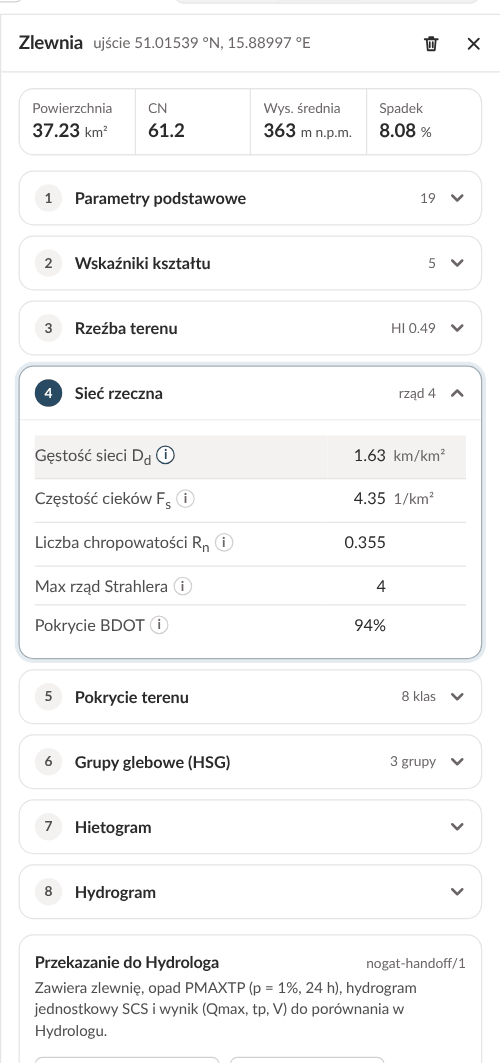
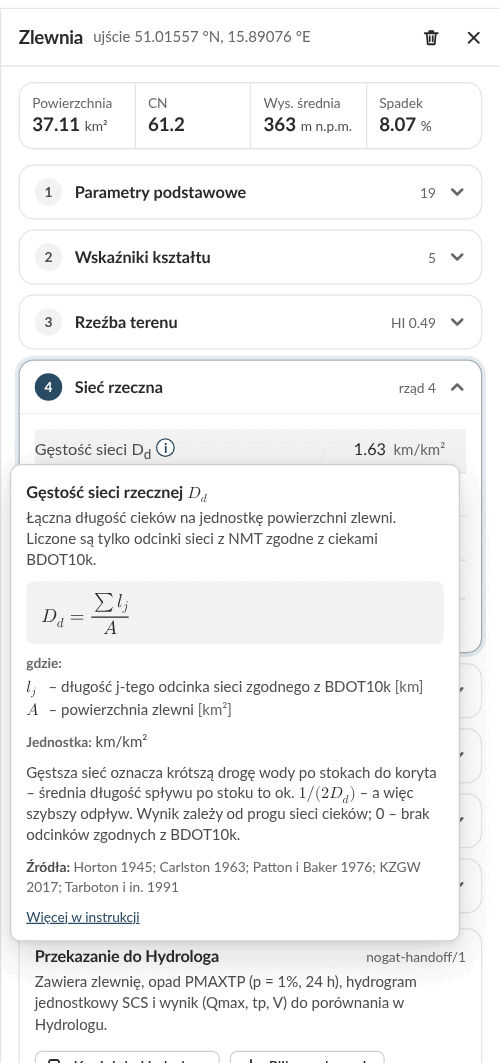
docs: current screenshots of the guide

diff --git a/frontend/instrukcja/index.html b/frontend/instrukcja/index.html
@@ -131,7 +131,7 @@
   <p class="kicker">02 · Orientacja</p>
   <h2>Co jest na ekranie?</h2>
   <div class="split">
-    <figure class=""><a href="Hydrograf-v2-zlewnia.png"><img class="app-shot wide-shot" src="Hydrograf-v2-zlewnia.png" width="1800" height="1125" alt="Widok aplikacji po wyznaczeniu zlewni Kamiennika: cztery tryby nad mapą, granica zlewni i panel z powierzchnią 37,23 km²."></a><figcaption>Co jest na ekranie?. Kliknij obraz, aby powiększyć.</figcaption></figure>
+    <figure class=""><a href="Hydrograf-v2-zlewnia.png"><img class="app-shot wide-shot" src="Hydrograf-v2-zlewnia.png" width="1800" height="1125" alt="Widok aplikacji po wyznaczeniu zlewni Kamiennika: cztery tryby nad mapą, granica zlewni, panel z powierzchnią 37,11 km² i pasek źródeł."></a><figcaption>Co jest na ekranie? Kliknij obraz, aby powiększyć.</figcaption></figure>
     <div class="stack">
       <div class="card"><span class="label">Górny pasek</span><p>Nazwa aplikacji i kontekst („Mapa / Zlewnia … km²”), przycisk „Zgłoś uwagę”, przycisk „Instrukcja” (otwiera najpierw okno powitalne), „Aplikacje” i motyw Auto · Jasny · Ciemny. „Aplikacje” to lista innych aplikacji ekosystemu (np. Hydrologa, Archiwisty), gdy ta instalacja Hydrografa je zna; każda otwiera się we własnej karcie.</p></div>
       <div class="card"><span class="label">Panele</span><p>Po lewej szyna Mapa · Logowanie i panel „Warstwy”, po prawej panel „Zlewnia” z wynikami; w trybie sieci po prawej panel „Sieć zlewni”.</p></div>
@@ -353,7 +353,7 @@
 
   <h3>Objaśnienia (i)</h3>
   <div class="split">
-    <figure class="portrait"><a href="Hydrograf-v2-info.png"><img class="app-shot fit-shot" src="Hydrograf-v2-info.png" width="500" height="1063" alt="Objaśnienie gęstości sieci cieków otwarte obok parametrów zlewni."></a><figcaption>Objaśnienia (i). Kliknij obraz, aby powiększyć.</figcaption></figure>
+    <figure class="portrait"><a href="Hydrograf-v2-info.png"><img class="app-shot fit-shot" src="Hydrograf-v2-info.png" width="500" height="1063" alt="Otwarte objaśnienie gęstości sieci rzecznej z odnośnikiem „Więcej w instrukcji” obok parametrów zlewni."></a><figcaption>Objaśnienia (i). Kliknij obraz, aby powiększyć.</figcaption></figure>
     <div class="stack">
       <div class="card"><span class="label">Gdzie są</span><p>Przy wierszach parametrów, przy Qmax, tp, V i bilansie opadu, przy polach hietogramu i hydrogramu, przy wynikach analiz w panelu „Warstwy” oraz w „Sieci zlewni” — przy rodzajach zlewni i parametrach odcinka.</p></div>
       <div class="card"><span class="label">Jak otworzyć</span><p>Kliknij (i) albo dojdź do niego klawiszem <kbd>Tab</kbd> i naciśnij <kbd>Enter</kbd> lub spację; na telefonie dotknij (i). Ponowne kliknięcie, kliknięcie obok lub <kbd>Esc</kbd> zamyka objaśnienie. Samo najechanie kursorem go nie otwiera.</p></div>
@@ -427,7 +427,7 @@
 
   <h3>Hydrogram: model, czas koncentracji, wynik</h3>
   <div class="split">
-    <figure class="portrait"><a href="Hydrograf-v2-hydrogram.png"><img class="app-shot fit-shot" src="Hydrograf-v2-hydrogram.png" width="500" height="781" alt="Hydrogram dla własnego opadu 45 mm: Qmax 1,65 m³/s, czas do szczytu 280 min i objętość 35 063 m³."></a><figcaption>Hydrogram: model, czas koncentracji, wynik. Kliknij obraz, aby powiększyć.</figcaption></figure>
+    <figure class="portrait"><a href="Hydrograf-v2-hydrogram.png"><img class="app-shot fit-shot" src="Hydrograf-v2-hydrogram.png" width="500" height="781" alt="Hydrogram dla własnego opadu 45 mm: Qmax 1,65 m³/s, czas do szczytu 280 min i objętość 34 957 m³."></a><figcaption>Hydrogram: model, czas koncentracji, wynik. Kliknij obraz, aby powiększyć.</figcaption></figure>
     <div class="stack">
       <div class="card"><span class="label">Model UH</span><p>Hydrogram jednostkowy zamienia opad efektywny w przepływ: SCS (domyślny); Nash — kaskada zbiorników, „Estymacja Nash”: Lutz lub Regresja urban.; Snyder — z długości cieku i odległości L<sub>c</sub>, ze współczynnikami Ct i Cp.</p></div>
       <div class="card"><span class="label">Metoda Tc</span><p>Czas koncentracji dla SCS: NRCS (SCS Lag), Kirpich, Giandotti, FAA (spływ pow.), Kerby, Kerby-Kirpich. Każdą liczy Hydrolog z danych, które podaje jej źródło, bez zastępników — najdłuższa droga spływu i jej spadek oraz spływ powierzchniowy pochodzą z wyznaczenia zlewni. FAA wymaga „C (spływ)” z tabeli FAA, obie metody Kerby’ego — „N (opór)” z tabeli Kerby’ego; pola są puste, dopóki ich nie wypełnisz. Snyder liczy własny czas opóźnienia z L i L<sub>c</sub> — wybór metody Tc nie zmienia jego wyniku.</p></div>
@@ -489,7 +489,7 @@
   <p class="kicker">06 · Sieć zlewni</p>
   <h2>Sieć zlewni: przekrój zamykający, punkty, podgląd</h2>
   <div class="split">
-    <figure class=""><a href="Hydrograf-v2-siec.png"><img class="app-shot wide-shot" src="Hydrograf-v2-siec.png" width="1400" height="1119" alt="Podgląd sieci zlewni: punkty J1–J4 w węzłach sieci, granice zlewni i drzewo od przekroju zamykającego J1 w górę."></a><figcaption>Sieć zlewni: przekrój zamykający, punkty, podgląd. Kliknij obraz, aby powiększyć.</figcaption></figure>
+    <figure class=""><a href="Hydrograf-v2-siec.png"><img class="app-shot wide-shot" src="Hydrograf-v2-siec.png" width="1400" height="1119" alt="Podgląd sieci zlewni: punkty J1–J3 i P1, granice siedmiu zlewni i drzewo od przekroju zamykającego J1 w górę."></a><figcaption>Sieć zlewni: przekrój zamykający, punkty, podgląd. Kliknij obraz, aby powiększyć.</figcaption></figure>
     <div class="steps-list">
       <div class="step"><span class="number">01</span><strong>Wybierz „Sieć zlewni”</strong><p>Na pasku nad mapą włącz „Wybierz zlewnię”, a u góry mapy — „Sieć zlewni”. Punkty trafią na najbliższy ciek progu warstwy „Linie spływu” w promieniu 100&nbsp;m.</p></div>
       <div class="step"><span class="number">02</span><strong>Kliknij przekrój zamykający</strong><p>Pierwsze kliknięcie stawia przekrój zamykający na cieku — dół całej sieci. Sam przekrój też jest siecią; w zbiegu cieków dzieli zlewnię na cieki, które się w nim łączą.</p></div>
@@ -503,7 +503,7 @@
 <section class="guide-subsection" id="siec-wynik">
 
   <h3>Charakterystyki sieci i przekazanie do Hydrologa</h3>
-  <figure class="tree-figure"><a href="Hydrograf-v2-siec-drzewo.png"><img class="app-shot" src="Hydrograf-v2-siec-drzewo.png" width="900" height="1019" alt="Wynik obliczenia sieci: suma elementów równa zlewni przekroju J1 oraz całe gałęzie drzewa z przyrzeczami, odcinkami R i węzłami J."></a><figcaption>Obliczona sieć dla przekroju przy zbiegu Nysy Szalonej i Kaczawy: struktura drzewa i kontrola bilansu. Kliknij obraz, aby powiększyć.</figcaption></figure>
+  <figure class="tree-figure"><a href="Hydrograf-v2-siec-drzewo.png"><img class="app-shot" src="Hydrograf-v2-siec-drzewo.png" width="900" height="1019" alt="Wynik obliczenia sieci: siedem zlewni, trzy odcinki, cztery węzły oraz zgodna suma elementów i powierzchnia przekroju J1."></a><figcaption>Obliczona sieć dla przekroju przy zbiegu Nysy Szalonej i Kaczawy: struktura drzewa i kontrola bilansu. Kliknij obraz, aby powiększyć.</figcaption></figure>
   <div class="grid four">
     <div class="card"><span class="label">Oblicz charakterystyki</span><p>Wystarczy przekrój zamykający bez błędu podglądu; punkty powyżej niego są opcjonalne. Na mapie gruba granica „Zlewnia (całość)” obejmuje całą sieć. Panel podaje „Cała zlewnia”, liczbę zlewni, odcinków i węzłów, kontrolę „Suma elementów = zlewnia przekroju zamykającego” i „Drzewo sieci od przekroju zamykającego w górę”: węzły J i P (przekrój zamykający z powierzchnią całej zlewni; węzeł, który wpływa do innego bez odcinka, jako „J4 → J1”), zlewnie Z (Dopływ, Przyrzecze — każdy rodzaj z (i)) z powierzchnią i CN, odcinki R z długością i spadkiem [‰]. Każdą gałąź czyta się tak samo: przyrzecze, odcinek, węzeł wyżej; pod węzłem, wcięte o krok, idą cieki, które się w nim łączą, a potem rzeka główna na tym samym poziomie — gałąź jest cała, zanim zacznie się następna.</p></div>
     <div class="card"><span class="label">Wybór elementu</span><p>Kliknij etykietę na mapie (Z1, R1, …) albo wiersz drzewa, który też przybliża mapę. Zlewnia pokaże parametry w sekcjach jak w „Wybierz zlewnię”, bez hietogramu i hydrogramu; odcinek — długość, spadek, NMT na końcach i długość wzdłuż BDOT10k. W podglądzie — rodzaj, powierzchnię lub długość i węzeł poniżej. „Odznacz” zdejmuje wybór.</p></div>
@@ -552,7 +552,7 @@
   <p class="kicker">08 · Profil terenu</p>
   <h2>Przekrój terenu wzdłuż linii</h2>
   <div class="split">
-    <figure class=""><a href="Hydrograf-v2-profil.png"><img class="app-shot wide-shot" src="Hydrograf-v2-profil.png" width="1475" height="1063" alt="Profil terenu dla linii na mapie: wykres odległości i wysokości, długość 6,44 km i zakres wysokości 280–388 m n.p.m."></a><figcaption>Przekrój terenu wzdłuż linii. Kliknij obraz, aby powiększyć.</figcaption></figure>
+    <figure class=""><a href="Hydrograf-v2-profil.png"><img class="app-shot wide-shot" src="Hydrograf-v2-profil.png" width="1475" height="1063" alt="Profil terenu dla linii na mapie: wykres odległości i wysokości, długość 6,56 km i zakres wysokości 295–387 m n.p.m."></a><figcaption>Przekrój terenu wzdłuż linii. Kliknij obraz, aby powiększyć.</figcaption></figure>
     <div class="steps-list">
       <div class="step"><span class="number">01</span><strong>Włącz „Profil terenu”</strong><p>Na pasku nad mapą; pomaga warstwa „NMT (wysokości)”. Pojawi się pasek rysowania z licznikiem punktów.</p></div>
       <div class="step"><span class="number">02</span><strong>Klikaj punkty linii</strong><p>Kliknięcie (dotknięcie) dodaje punkt; „Cofnij” lub <kbd>Backspace</kbd> usuwa ostatni, „Anuluj” lub <kbd>Esc</kbd> porzuca linię.</p></div>
@@ -568,9 +568,9 @@
   <p class="kicker">09 · Telefon i motyw</p>
   <h2>Na telefonie i po zmroku</h2>
   <div class="split">
-    <figure class="portrait"><a href="Hydrograf-v2-telefon.png"><img class="app-shot fit-shot" src="Hydrograf-v2-telefon.png" width="488" height="1055" alt="Widok aplikacji na telefonie: ikona Instrukcja w górnym pasku, cztery tryby, panel zlewni i dolna nawigacja Mapa oraz Logowanie."></a><figcaption>Na telefonie i po zmroku. Kliknij obraz, aby powiększyć.</figcaption></figure>
+    <figure class="portrait"><a href="Hydrograf-v2-telefon.png"><img class="app-shot fit-shot" src="Hydrograf-v2-telefon.png" width="488" height="1055" alt="Widok aplikacji na telefonie: górny pasek z ikonami, panel zlewni, pasek źródeł i dolna nawigacja Mapa, Logowanie oraz Regulamin."></a><figcaption>Na telefonie i po zmroku. Kliknij obraz, aby powiększyć.</figcaption></figure>
     <div class="stack">
-      <div class="card"><span class="label">Do 860&nbsp;px szerokości</span><p>Przy szerokości do 860 px szyna nawigacji Mapa · Logowanie staje się dolnym paskiem. W górnym pasku pozostają ikony: „Zgłoś uwagę”, „Instrukcja” (okno powitalne), „Aplikacje” (lista rozwija się pod paskiem) i przełącznik motywu.</p></div>
+      <div class="card"><span class="label">Do 860&nbsp;px szerokości</span><p>Przy szerokości do 860 px szyna nawigacji Mapa · Logowanie · Regulamin staje się dolnym paskiem. W górnym pasku pozostają ikony: „Zgłoś uwagę”, „Instrukcja” (okno powitalne), „Aplikacje” (lista rozwija się pod paskiem) i przełącznik motywu.</p></div>
       <div class="card"><span class="label">Arkusze</span><p>„Warstwy” i „Zlewnia” (w „Sieci zlewni” — „Sieć”) wysuwają się od dołu, zawsze jeden naraz. Otwierają je przyciski na pasku nad mapą, zamyka uchwyt u góry arkusza; po wyznaczeniu zlewni arkusz „Zlewnia” otwiera się sam.</p></div>
       <div class="card"><span class="label">Dotyk</span><p>Przy 390 px cztery tryby mieszczą się nad mapą w dwóch wierszach. Podpowiedzi trybu są ukryte. Profil narysujesz, dotykając kolejnych punktów linii; sieć zlewni — wskazując przekrój zamykający i potem punkty powyżej.</p></div>
       <div class="card"><span class="label">Motyw</span><p>Auto (jak w systemie), Jasny lub Ciemny — linie na mapie, legendy i wykresy zmieniają kolory razem z motywem. Przeglądarka zapamięta wybór, także dla administracji i tej instrukcji.</p></div>

diff --git a/docs/Hydrograf-prezentacja.html b/docs/Hydrograf-prezentacja.html
@@ -136,7 +136,7 @@
   <p class="kicker">02 · Orientacja</p>
   <h2>Co jest na ekranie?</h2>
   <div class="split">
-    <img class="app-shot wide-shot" src="../frontend/instrukcja/Hydrograf-v2-zlewnia.png" width="1800" height="1125" alt="Widok aplikacji po wyznaczeniu zlewni Kamiennika: cztery tryby nad mapą, granica zlewni i panel z powierzchnią 37,23 km².">
+    <img class="app-shot wide-shot" src="../frontend/instrukcja/Hydrograf-v2-zlewnia.png" width="1800" height="1125" alt="Widok aplikacji po wyznaczeniu zlewni Kamiennika: cztery tryby nad mapą, granica zlewni, panel z powierzchnią 37,11 km² i pasek źródeł.">
     <div class="stack">
       <div class="card"><span class="label">Górny pasek</span><p>Nazwa aplikacji i kontekst („Mapa / Zlewnia … km²”), przycisk „Zgłoś uwagę”, przycisk „Instrukcja” (otwiera najpierw okno powitalne), „Aplikacje” (inne aplikacje ekosystemu, gdy ta instalacja je zna) i motyw Auto · Jasny · Ciemny.</p></div>
       <div class="card"><span class="label">Panele</span><p>Po lewej szyna Mapa · Logowanie i panel „Warstwy”, po prawej panel „Zlewnia” z wynikami; w trybie sieci po prawej panel „Sieć zlewni”.</p></div>
@@ -349,7 +349,7 @@
   <p class="kicker">04 · Zlewnia</p>
   <h2>Objaśnienia (i)</h2>
   <div class="split">
-    <img class="app-shot fit-shot" src="../frontend/instrukcja/Hydrograf-v2-info.png" width="500" height="1063" alt="Objaśnienie gęstości sieci cieków otwarte obok parametrów zlewni.">
+    <img class="app-shot fit-shot" src="../frontend/instrukcja/Hydrograf-v2-info.png" width="500" height="1063" alt="Otwarte objaśnienie gęstości sieci rzecznej z odnośnikiem „Więcej w instrukcji” obok parametrów zlewni.">
     <div class="stack">
       <div class="card"><span class="label">Gdzie są</span><p>Przy wierszach parametrów, przy Qmax, tp, V i bilansie opadu, przy polach hietogramu i hydrogramu, przy wynikach analiz w panelu „Warstwy” oraz w „Sieci zlewni” — przy rodzajach zlewni i parametrach odcinka.</p></div>
       <div class="card"><span class="label">Jak otworzyć</span><p>Kliknij (i) albo dojdź do niego klawiszem <kbd>Tab</kbd> i naciśnij <kbd>Enter</kbd> lub spację; na telefonie dotknij (i). Ponowne kliknięcie, kliknięcie obok lub <kbd>Esc</kbd> zamyka objaśnienie. Samo najechanie kursorem go nie otwiera.</p></div>
@@ -418,7 +418,7 @@
   <p class="kicker">05 · Opad i odpływ</p>
   <h2>Hydrogram: model, czas koncentracji, wynik</h2>
   <div class="split">
-    <img class="app-shot fit-shot" src="../frontend/instrukcja/Hydrograf-v2-hydrogram.png" width="500" height="781" alt="Hydrogram dla własnego opadu 45 mm: Qmax 1,65 m³/s, czas do szczytu 280 min i objętość 35 063 m³.">
+    <img class="app-shot fit-shot" src="../frontend/instrukcja/Hydrograf-v2-hydrogram.png" width="500" height="781" alt="Hydrogram dla własnego opadu 45 mm: Qmax 1,65 m³/s, czas do szczytu 280 min i objętość 34 957 m³.">
     <div class="stack">
       <div class="card"><span class="label">Model UH</span><p>Hydrogram jednostkowy zamienia opad efektywny w przepływ: SCS (domyślny); Nash — kaskada zbiorników, „Estymacja Nash”: Lutz lub Regresja urban.; Snyder — z długości cieku i odległości L<sub>c</sub>, ze współczynnikami Ct i Cp.</p></div>
       <div class="card"><span class="label">Metoda Tc</span><p>Czas koncentracji dla SCS: NRCS (SCS Lag), Kirpich, Giandotti, FAA (spływ pow.), Kerby, Kerby-Kirpich. Każdą liczy Hydrolog z danych, które podaje jej źródło, bez zastępników — najdłuższa droga spływu i jej spadek oraz spływ powierzchniowy pochodzą z wyznaczenia zlewni. FAA wymaga „C (spływ)” z tabeli FAA, obie metody Kerby’ego — „N (opór)” z tabeli Kerby’ego; pola są puste, dopóki ich nie wypełnisz. Snyder liczy własny czas opóźnienia z L i L<sub>c</sub> — wybór metody Tc nie zmienia jego wyniku.</p></div>
@@ -482,7 +482,7 @@
   <p class="kicker">06 · Sieć zlewni</p>
   <h2>Sieć zlewni: przekrój zamykający, punkty, podgląd</h2>
   <div class="split">
-    <img class="app-shot wide-shot" src="../frontend/instrukcja/Hydrograf-v2-siec.png" width="1400" height="1119" alt="Podgląd sieci zlewni: punkty J1–J4 w węzłach sieci, granice zlewni i drzewo od przekroju zamykającego J1 w górę.">
+    <img class="app-shot wide-shot" src="../frontend/instrukcja/Hydrograf-v2-siec.png" width="1400" height="1119" alt="Podgląd sieci zlewni: punkty J1–J3 i P1, granice siedmiu zlewni i drzewo od przekroju zamykającego J1 w górę.">
     <div class="steps-list">
       <div class="step"><span class="number">01</span><strong>Wybierz „Sieć zlewni”</strong><p>Na pasku włącz „Wybierz zlewnię”, a nad mapą — „Sieć zlewni”. Kliknięcia do 100 m od cieku trafią na linię spływu.</p></div>
       <div class="step"><span class="number">02</span><strong>Kliknij przekrój zamykający</strong><p>Pierwszy punkt zamyka całą sieć. W zbiegu dzieli zlewnię na cieki, które się tam łączą; sam wystarcza do obliczenia sieci.</p></div>
@@ -540,7 +540,7 @@
   <p class="kicker">08 · Profil terenu</p>
   <h2>Przekrój terenu wzdłuż linii</h2>
   <div class="split">
-    <img class="app-shot wide-shot" src="../frontend/instrukcja/Hydrograf-v2-profil.png" width="1475" height="1063" alt="Profil terenu dla linii na mapie: wykres odległości i wysokości, długość 6,44 km i zakres wysokości 280–388 m n.p.m.">
+    <img class="app-shot wide-shot" src="../frontend/instrukcja/Hydrograf-v2-profil.png" width="1475" height="1063" alt="Profil terenu dla linii na mapie: wykres odległości i wysokości, długość 6,56 km i zakres wysokości 295–387 m n.p.m.">
     <div class="steps-list">
       <div class="step"><span class="number">01</span><strong>Włącz „Profil terenu”</strong><p>Na pasku nad mapą; pomaga warstwa „NMT (wysokości)”. Pojawi się pasek rysowania z licznikiem punktów.</p></div>
       <div class="step"><span class="number">02</span><strong>Klikaj punkty linii</strong><p>Kliknięcie (dotknięcie) dodaje punkt; „Cofnij” lub <kbd>Backspace</kbd> usuwa ostatni, „Anuluj” lub <kbd>Esc</kbd> porzuca linię.</p></div>
@@ -555,9 +555,9 @@
   <p class="kicker">09 · Telefon i motyw</p>
   <h2>Na telefonie i po zmroku</h2>
   <div class="split">
-    <img class="app-shot fit-shot" src="../frontend/instrukcja/Hydrograf-v2-telefon.png" width="488" height="1055" alt="Widok aplikacji na telefonie: ikona Instrukcja w górnym pasku, cztery tryby, panel zlewni i dolna nawigacja Mapa oraz Logowanie.">
+    <img class="app-shot fit-shot" src="../frontend/instrukcja/Hydrograf-v2-telefon.png" width="488" height="1055" alt="Widok aplikacji na telefonie: górny pasek z ikonami, panel zlewni, pasek źródeł i dolna nawigacja Mapa, Logowanie oraz Regulamin.">
     <div class="stack">
-      <div class="card"><span class="label">Do 860&nbsp;px szerokości</span><p>Przy szerokości do 860 px szyna nawigacji Mapa · Logowanie staje się dolnym paskiem. W górnym pasku pozostają ikony: „Zgłoś uwagę”, „Instrukcja” (okno powitalne), „Aplikacje” (lista rozwija się pod paskiem) i przełącznik motywu.</p></div>
+      <div class="card"><span class="label">Do 860&nbsp;px szerokości</span><p>Przy szerokości do 860 px szyna nawigacji Mapa · Logowanie · Regulamin staje się dolnym paskiem. W górnym pasku pozostają ikony: „Zgłoś uwagę”, „Instrukcja” (okno powitalne), „Aplikacje” (lista rozwija się pod paskiem) i przełącznik motywu.</p></div>
       <div class="card"><span class="label">Arkusze</span><p>„Warstwy” i „Zlewnia” (w „Sieci zlewni” — „Sieć”) wysuwają się od dołu, zawsze jeden naraz. Otwierają je przyciski na pasku nad mapą, zamyka uchwyt u góry arkusza; po wyznaczeniu zlewni arkusz „Zlewnia” otwiera się sam.</p></div>
       <div class="card"><span class="label">Dotyk</span><p>Przy 390 px cztery tryby mieszczą się nad mapą w dwóch wierszach. Podpowiedzi trybu są ukryte. Profil narysujesz, dotykając kolejnych punktów linii; sieć zlewni — wskazując przekrój zamykający i potem punkty powyżej.</p></div>
       <div class="card"><span class="label">Motyw</span><p>Auto (jak w systemie), Jasny lub Ciemny — linie na mapie, legendy i wykresy zmieniają kolory razem z motywem. Przeglądarka zapamięta wybór, także dla administracji i tej instrukcji.</p></div>

diff --git a/docs/CHANGELOG.md b/docs/CHANGELOG.md
@@ -124,6 +124,7 @@ and this project adheres to [Semantic Versioning](https://semver.org/spec/v2.0.0
 - Migration 018: a composite index `(threshold_m2, segment_idx)` on `stream_catchments`.
 
 ### Changed
+- **Guide screenshots refreshed** (`frontend/instrukcja/`, `docs/Hydrograf-prezentacja.html`): retaken the changed map, layers, flood, network, profile, mobile and catchment-parameter views from the live service, including the single sources strip, „Ortofotomapa GUGiK”, the rail's „Regulamin” and the open „(i)” explanation; captions and image descriptions now match the pictured results.
 - **No footer; „Regulamin” in the left navigation** (the author's decision of 2026-11-14; Nogat DEV-15.7, DEV-15.8; ADR-084 amended; `index.html`, `instrukcja/index.html`, `css/chrome.css`, `css/app.css`, `instrukcja/instrukcja.css`, `js/terms.js`, `js/welcome.js`): the footer under the map's strip of sources and under the guide, with the statement „Serwis jest niekomercyjny i bezpłatny…” and its link, is gone; the statement stays the opening of § 3 of the regulamin (unchanged, version 1.0). On a public deployment „Regulamin” (a new tab) is a small, muted last item of the left rail (on phones of the bottom bar) and of the guide's table of contents, besides the menu „Aplikacje” and the welcome window, which shows „Regulamin serwisu” even without provider lines; the strip „Źródła i warunki” is unchanged. Without `[nogat.operator]` there is no link.
 - **Pins follow Nogat's release set candidate-4** (`release-sets/candidate-4/members.toml`): `backend/pyproject.toml` and `backend/uv.lock` pin Kartograf `c9afdd3` (was `d0990c8`), Obserwator `0394af7` (was `f9f4ee7`) and Hydrolog `9e2cb61` (was `930915d`), each the head of the producer's `develop`; no other package of the lock moves. The functions Hydrograf calls keep their signatures and results. Kartograf removes dead code and merges duplicates (none of the removed functions is called here) and fixes its CI and a Windows cleanup race. Obserwator splits its store into a raw root and a data root (its ADR-017), takes the station details of hydro.imgw.pl (its ADR-021) and adds its GUI and stored analyses; Hydrograf calls only `fetch_pmaxtp`, which reads no store, and its `Obserwator*Error` exceptions, all unchanged. Hydrolog adds station statistics and its admin panel, removes dead code (`TerrainAnalysis.mean_elevation_from_dem`, `LutzCalculationResult.tp_iuh_min`, not used here) and closes logging gaps (Nogat DEV-12.5, DEV-12.7, DEV-20.10); its `read_network` now takes the providers' lines at the top of a network document, and it routes a reach that Muskingum-Cunge cannot grid as linear reservoirs (Hydrolog ADR-0026). `time/concentration.py`, `runoff/` (but `nash_iuh.py`), `morphometry/watershed_params.py`, `_ranges.py` and `precipitation/` are unchanged.
 - **Info texts by Nogat DEV-15.14** (ECO-069; `js/info-texts.js`, `js/info.js`, `css/app.css`, the guide, `instrukcja/instrukcja.css`, `docs/INFO_TEXTS_SOURCES.md`): every „(i)” gives a definition of one or two sentences, the formula with its symbols and units, how to read the value and the sources, at most about 400 characters without the formula and the sources (about 30,000 characters in all, from about 70,000). The blocks „Znaczenie dla analizy”, „Zakres stosowalności”, „Uwaga” and the lists of typical values moved with their claims to the guide's new part „Objaśnienia wielkości i metod” (`/instrukcja/#objasnienia-wielkosci`), which 67 of the 86 texts link with „Więcej w instrukcji” (a new tab); no text names the program that computes a value. Claims found stale on the way are corrected: Snyder's unit hydrograph is built for the time step and C<sub>p</sub> sets its peak, Hydrolog warns outside the ranges of SCS, Nash and Snyder (the application does not show it), a network point up to 50 m below a confluence moves to it, the shape and relief act through the flow lengths and slopes the methods take; two claims (a past result, an internal plan's criterion) are gone. The guide's SFINCS section gives the simulation's assumptions instead of sending the reader to the layer's „(i)”, and no longer says that the depths may be too low at the dam: the reservoir level is too high.

diff --git a/docs/PROGRESS.md b/docs/PROGRESS.md
@@ -29,7 +29,7 @@ scheduled in [BACKLOG.md](BACKLOG.md) and [TECHNICAL_DEBT.md](TECHNICAL_DEBT.md)
 | Dead and duplicated code | done | The author's request of 2026-11-14: functions without callers or only with their own tests, the re-exports of `scripts/process_dem.py`, settings and `config.yaml` keys that nothing read, the staging LAN binding of S7 and front-end functions and exports without callers removed (CHANGELOG, Removed); the rmtree helper, the sheet box and the map colour helpers have one implementation. Kept on purpose: the routes, validators and response fields that vulture flags, the reference functions of the equivalence tests (`zonal_min`, `zonal_elevation_histogram`, `normalize_elevation`), the CRS constants of TECHNICAL_DEBT and the old columns of the feedback (Next 14). `stream_catchments.hydraulic_length_km` is now written and never read: dropping it needs a migration. Merged into `develop` on 2026-11-14 (`f6f689e`). |
 | No footer | done | The author's decision of 2026-11-14 (Nogat DEV-15.7, DEV-15.8; ADR-084 amended): the footer and its statement are gone from the map and the guide; „Regulamin” is the last item of the rail (the bottom bar on phones) and of the guide's table of contents, besides the menu and the welcome window's „Regulamin serwisu”. `scripts/gate.sh` on `feat/no-footer`: 2,379 passed, 170 deselected, coverage 87.2 %. Not merged or deployed. |
 | Tests and gate | done | `scripts/gate.sh` on the head of `feat/network-nodes` (2026-11-11): 2,225 passed, 170 deselected, coverage above the floor of 80 %; on `feature/nogat-kit` (2026-11-12, merged as `48bf24a`): 2,244 passed, 170 deselected, coverage 87.0 %; on `fix/provider-attribution` (2026-11-13): 2,260 passed, 170 deselected, coverage 87.1 %; on `feature/public-gui` (2026-11-13): 2,323 passed, 170 deselected, coverage 87.5 %; on `feature/compact-sources` (2026-11-13): 2,325 passed, 170 deselected, coverage 87.5 %; on `fix/minimal-provider-texts` (2026-11-13): 2,325 passed, 170 deselected, coverage 87.5 %; `db` tests on `b5e1154`: 158 passed, 1 skipped (the integration test of the network endpoint was updated for the plan `2026-11-11-network-nodes` and not run against PostGIS since). CI in `.github/workflows/ci.yml`. |
-| Documentation | in progress | Nogat standard 1.0 in English; the documents still in Polish are listed in Next 7. |
+| Documentation | in progress | Guide and slide screenshots refreshed from the current live UI on 2026-11-14; the documents still in Polish are listed in Next 7. |
 | Release v0.5.0 | in progress | `develop` carries 0.5.0.dev0, `main` v0.4.0 (2026-03-03). The next release is v0.5.0 (the author, 2026-11-03); the author extends the candidate and sets the tag himself (2026-11-05). |
 | Hydraulik integration | blocked | Paused by the author until Hydraulik works well enough (BACKLOG). |
 
@@ -209,8 +209,7 @@ scheduled in [BACKLOG.md](BACKLOG.md) and [TECHNICAL_DEBT.md](TECHNICAL_DEBT.md)
     przelewu ani upustu dennego.” (394 characters, now 2,496) and `source` „Leijnse i in. 2021
     (SFINCS); dane: IMGW-PIB (PMAXTP), GUGiK (NMT, BDOT10k), ISRIC SoilGrids (CC BY 4.0)”. The
     assumptions of the run moved to the guide's `#sfincs`. Its `attribution` has PS, PP and M but
-    not G and SG of the NMT, BDOT10k and SoilGrids the run used (Open questions 11). The
-    screenshot `Hydrograf-v2-info.png` shows the old (i).
+    not G and SG of the NMT, BDOT10k and SoilGrids the run used (Open questions 11).
 
 ## Open questions
 
